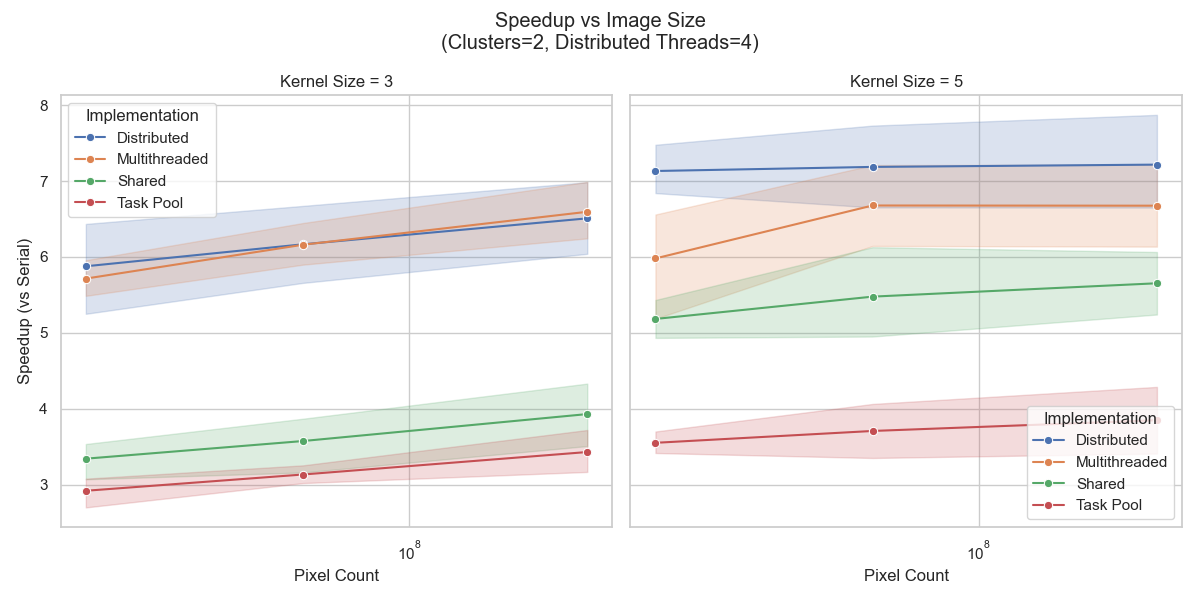
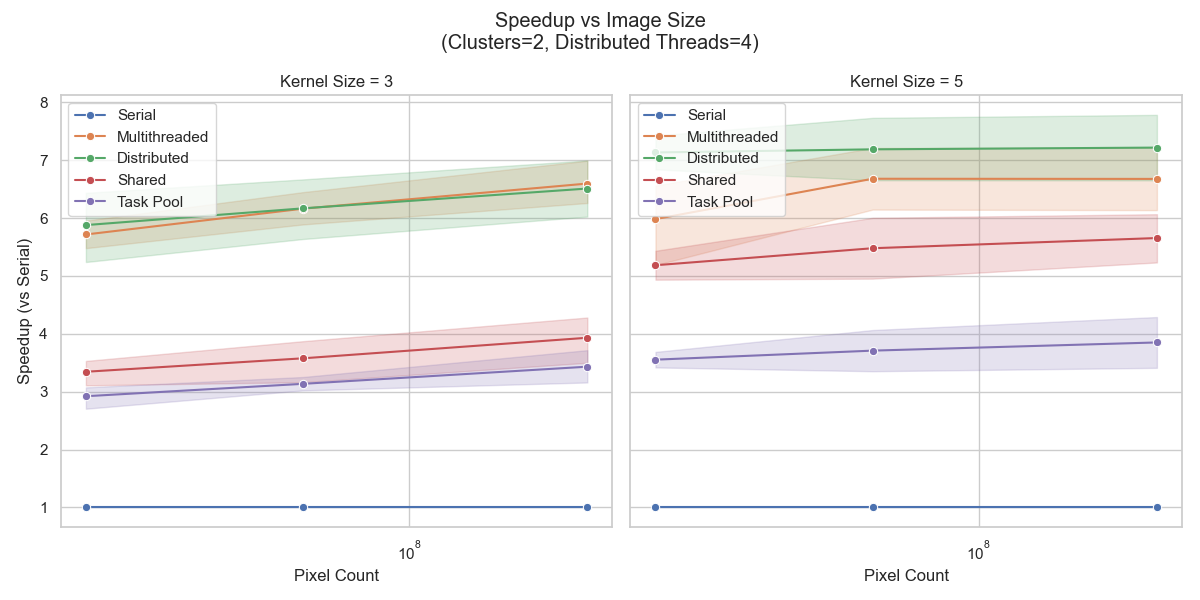
Refactor visualization plots and update images
Update plot assets and refactor visualization/plots.py: replace inline helpers with _melt_speedup_data and _draw_speedup_graph, consolidate speedup column detection, and rename _plot_config_speedup to _plot_speedup_by_kernel_size. Improve plotting flow (melt then draw), set legends, use _get_dist_threads_col for core calculations in efficiency preparation, and remove header comments. Also commit updated plot PNGs and regenerated __pycache__ .pyc files.

diff --git a/visualization/plots.py b/visualization/plots.py
@@ -1,6 +1,3 @@
-# ABOUTME: This module provides functions for visualizing performance metrics such as speedup and efficiency.
-# ABOUTME: It generates plots using seaborn and matplotlib based on benchmark data processed by data.py.
-
 import matplotlib.pyplot as plt
 import seaborn as sns
 import pandas as pd
@@ -15,50 +12,43 @@ def _get_dist_threads_col(df: pd.DataFrame) -> str:
     return "Threads.1" if "Threads.1" in df.columns else "Threads"
 
 
-def _plot_single_speedup_line(ax: plt.Axes, sub_k: pd.DataFrame, k_size: int) -> None:
-    """Helper to melt data and plot speedup lines on a single axes."""
-    # Melt for plotting multiple lines from the same row
-    value_vars = [
-        "Distributed Speedup",
-        "Multithreaded Speedup",
-        "Shared Speedup",
-        "Task Pool Speedup",
-    ]
-    # Only include columns that actually exist
-    value_vars = [c for c in value_vars if c in sub_k.columns]
+def _melt_speedup_data(df: pd.DataFrame) -> pd.DataFrame:
+    """Melts the dataframe to long format for speedup plotting."""
+    value_vars = [c for c in df.columns if "Speedup" in c]
 
-    melted_sub = sub_k.melt(
+    melted = df.melt(
         id_vars=["Pixel Count"],
         value_vars=value_vars,
         var_name="Implementation",
         value_name="Speedup",
     )
 
-    # Clean up implementation names (remove " Speedup")
-    melted_sub["Implementation"] = melted_sub["Implementation"].str.replace(
-        " Speedup", ""
-    )
+    melted["Implementation"] = melted["Implementation"].str.replace(" Speedup", "")
+    return melted
 
+
+def _draw_speedup_graph(ax: plt.Axes, melted_df: pd.DataFrame, k_size: int) -> None:
+    """Plots lines on a specific axes using pre-melted data."""
     sns.lineplot(
-        data=melted_sub,
+        data=melted_df,
         x="Pixel Count",
         y="Speedup",
         hue="Implementation",
         marker="o",
         ax=ax,
     )
-
+    ax.legend(loc="upper left")
     ax.set_title(f"Kernel Size = {k_size}")
     ax.set_xscale("log")
     ax.set_xlabel("Pixel Count")
     ax.grid(True)
 
 
-def _plot_config_speedup(
+def _plot_speedup_by_kernel_size(
     subset: pd.DataFrame, cluster: int, thread: int, output_dir: Path
 ) -> None:
     """Generates and saves the speedup plot for a specific cluster/thread configuration."""
-    # Get unique kernel sizes for this configuration
+    # We expect Kernel Size 3 and 5 typically
     kernel_sizes = sorted(subset["Kernel Size"].unique())
 
     if len(kernel_sizes) == 0:
@@ -72,8 +62,14 @@ def _plot_config_speedup(
         axes = [axes]
 
     for ax, k_size in zip(axes, kernel_sizes):
-        sub_k = subset[subset["Kernel Size"] == k_size]
-        _plot_single_speedup_line(ax, sub_k, k_size)
+        # 1. Filter by kernel size
+        sub_k = subset[subset["Kernel Size"] == k_size].copy()
+
+        # 2. Melt / Aggregate
+        melted_data = _melt_speedup_data(sub_k)
+
+        # 3. Plot
+        _draw_speedup_graph(ax, melted_data, k_size)
 
     # Set shared y-label on the first subplot
     axes[0].set_ylabel("Speedup (vs Serial)")
@@ -116,19 +112,18 @@ def plot_speedup_vs_size(df: pd.DataFrame, output_dir: Path) -> None:
             (distributed_df["Clusters"] == cluster)
             & (distributed_df[dist_threads_col] == thread)
         ]
-        _plot_config_speedup(subset, cluster, thread, output_dir)
+        _plot_speedup_by_kernel_size(subset, cluster, thread, output_dir)
 
 
 def _prepare_efficiency_data(df: pd.DataFrame) -> tuple[pd.DataFrame, int]:
     """Prepares the melted dataframe for efficiency plotting."""
-    dist_threads_col = _get_dist_threads_col(df)
 
     # Filter for max image size
     max_pixels = df["Pixel Count"].max()
     subset = df[df["Pixel Count"] == max_pixels].copy()
 
     # Calculate Total Cores for the row (Clusters * Threads per process)
-    subset["Total Cores"] = subset["Clusters"] * subset[dist_threads_col]
+    subset["Total Cores"] = subset["Clusters"] * subset[_get_dist_threads_col(df)]
 
     # Filter out single core
     subset = subset[subset["Total Cores"] >= 2]
@@ -137,13 +132,7 @@ def _prepare_efficiency_data(df: pd.DataFrame) -> tuple[pd.DataFrame, int]:
         return pd.DataFrame(), max_pixels
 
     # Melt logic to get Efficiency for each implementation
-    value_vars = [
-        "Distributed Speedup",
-        "Multithreaded Speedup",
-        "Shared Speedup",
-        "Task Pool Speedup",
-    ]
-    value_vars = [c for c in value_vars if c in subset.columns]
+    value_vars = [c for c in df.columns if "Speedup" in c and "Serial" not in c]
 
     melted_eff = subset.melt(
         id_vars=["Total Cores", "Kernel Size"],
@@ -174,6 +163,7 @@ def _draw_efficiency_plot(
         markers=True,
     )
     plt.axhline(1.0, color="r", linestyle="--", label="Ideal")
+    plt.legend(loc="upper right")
     plt.title(f"Parallel Efficiency vs Total Cores\n(Image Size={max_pixels})")
     plt.ylabel("Efficiency (Speedup / Cores)")
     plt.xlabel("Total Cores")
